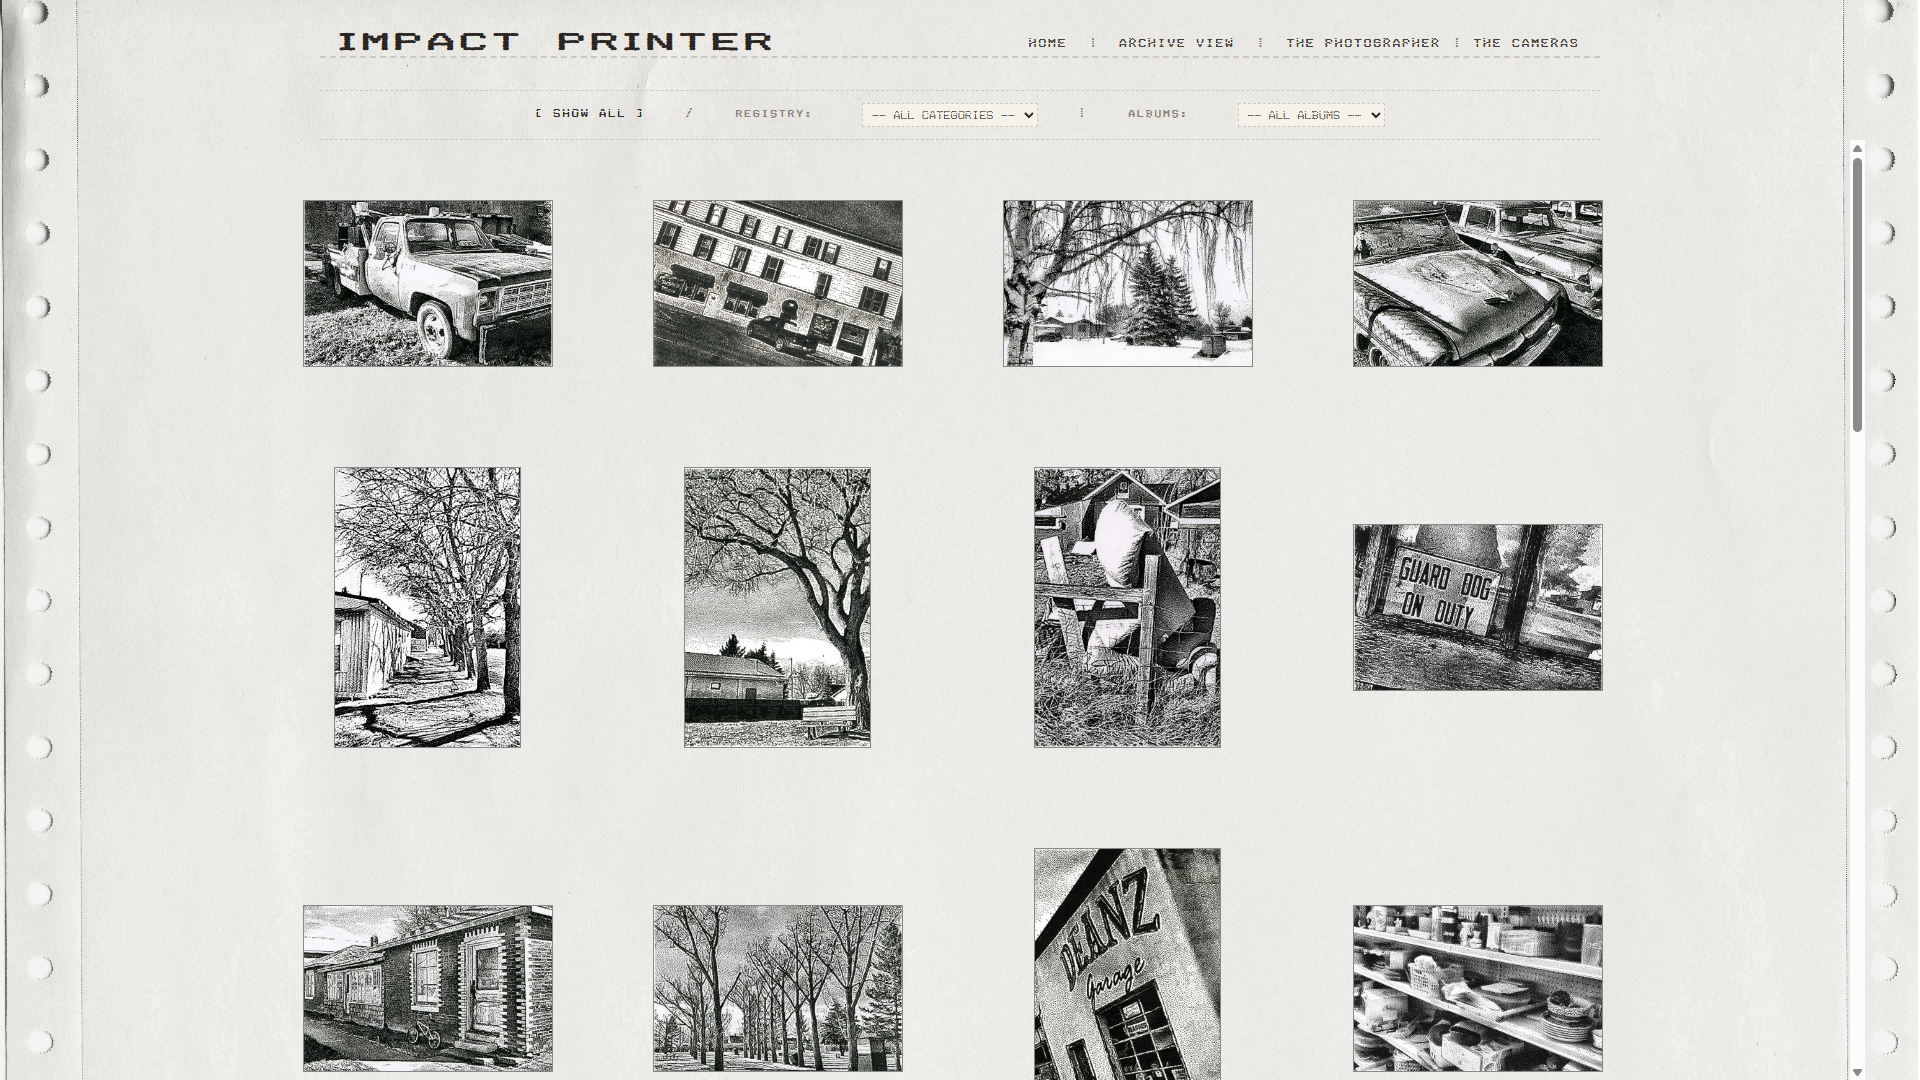
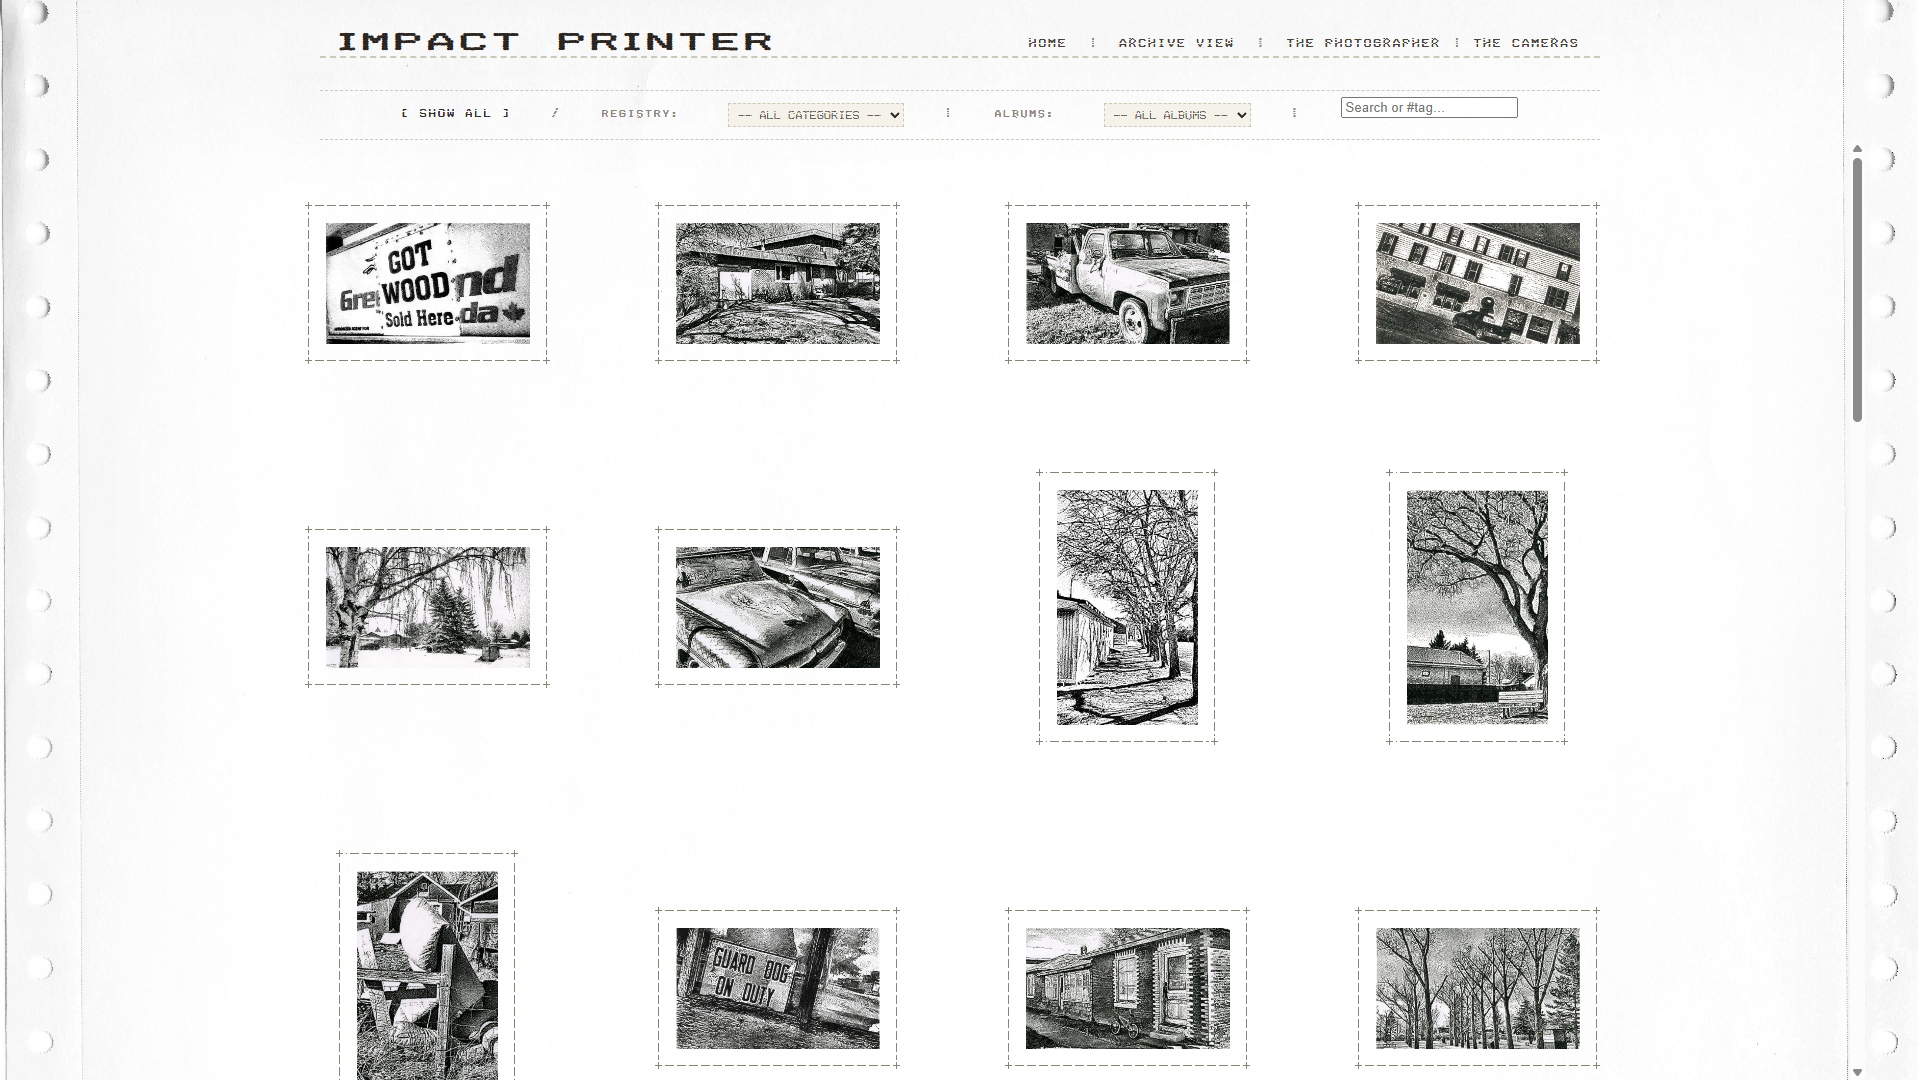
Redesign media library: cleaner card layout, TIFF handling, themed shortcodes
- Cards now show filename, a prominent shortcode (dashed border, click
  to copy), compact size/align dropdowns, and SWAP/PURGE actions in a
  tighter vertical stack.
- Non-web formats (TIF, PSD, etc.) show a format badge instead of a
  broken <img> tag.
- Purge confirmation now warns about shortcode breakage.
- Shortcode display styled per admin theme (accent border/text on dark
  bg) across all 16 colour themes.
- Removed unused compact-label/compact-select/preview-box classes;
  replaced with purpose-built asset-filename, asset-shortcode-row,
  asset-no-preview.
- Updated Impact Printer archive screenshot.

diff --git a/assets/css/admin-theme-geometry-master.css b/assets/css/admin-theme-geometry-master.css
@@ -1061,8 +1061,8 @@ button:active,
 /* --- MEDIA LIBRARY --- */
 .asset-grid {
     display: grid;
-    grid-template-columns: repeat(auto-fill, minmax(220px, 1fr));
-    gap: 30px;
+    grid-template-columns: repeat(auto-fill, minmax(240px, 1fr));
+    gap: 24px;
 }
 
 .asset-card {
@@ -1070,20 +1070,18 @@ button:active,
     border-style: solid;
     border-radius: 4px;
     overflow: hidden;
-    transition: transform 0.2s, box-shadow 0.2s;
-}
-
-.asset-card:hover {
-    transform: translateY(-2px);
+    display: flex;
+    flex-direction: column;
 }
 
 .asset-thumb-wrapper {
-    height: 150px;
+    height: 160px;
     display: flex;
     align-items: center;
     justify-content: center;
     border-bottom-width: 1px;
     border-bottom-style: solid;
+    overflow: hidden;
 }
 
 .asset-thumb-wrapper img {
@@ -1092,49 +1090,70 @@ button:active,
     object-fit: contain;
 }
 
+.asset-no-preview {
+    font-family: monospace;
+    font-size: 1.1rem;
+    letter-spacing: 1px;
+    opacity: 0.5;
+}
+
 .asset-info {
-    padding: 15px;
+    padding: 12px;
+    display: flex;
+    flex-direction: column;
+    gap: 8px;
+    flex: 1;
+}
+
+.asset-filename {
+    font-size: 0.7rem;
+    white-space: nowrap;
+    overflow: hidden;
+    text-overflow: ellipsis;
+}
+
+.asset-shortcode-row .shortcode-display {
+    font-family: monospace;
+    font-size: 0.8rem;
+    padding: 6px 10px;
+    border-width: 1px;
+    border-style: dashed;
+    border-radius: 3px;
+    text-align: center;
+    cursor: pointer;
+    transition: opacity 0.15s;
+    letter-spacing: 0.3px;
+}
+.asset-shortcode-row .shortcode-display:hover {
+    opacity: 0.7;
 }
 
 .asset-controls {
     display: flex;
-    gap: 10px;
+    gap: 6px;
 }
-
-.asset-controls .control-group {
+.asset-controls select {
     flex: 1;
-}
-
-.asset-card label {
-    font-size: 0.65rem;
-    margin-bottom: 4px;
-    margin-top: 10px;
-    letter-spacing: 0.5px;
-}
-
-.asset-card select {
-    height: 32px;
-    padding: 0 8px;
-    font-size: 0.8rem;
-    margin: 0;
-}
-
-.asset-card .preview-box {
-    height: 32px;
-    padding: 0 10px;
+    height: 28px;
+    padding: 0 6px;
     font-size: 0.75rem;
-    font-family: monospace;
     margin: 0;
-    display: flex;
-    align-items: center;
-    justify-content: center;
-    text-align: center;
 }
 
 .asset-actions {
-    margin-top: 15px;
     display: flex;
-    justify-content: flex-end;
+    gap: 8px;
+    align-items: center;
+    margin-top: auto;
+    padding-top: 4px;
+}
+.asset-actions .action-edit {
+    font-size: 0.7rem;
+    padding: 4px 10px;
+}
+.asset-actions .action-delete-link {
+    font-size: 0.7rem;
+    margin-left: auto;
 }
 
 /* --- ENGINE MECHANICS (SLIDERS & COLOUR PICKERS) --- */

diff --git a/assets/adminthemes/the-black-pearl/admin-theme-colours-the-black-pearl.css b/assets/adminthemes/the-black-pearl/admin-theme-colours-the-black-pearl.css
@@ -417,6 +417,24 @@ input[type="range"]::-webkit-slider-thumb {
     background-color: #FFFFFF;
 }
 
+/* Asset cards (Media Library) */
+.asset-card {
+    border-color: #1A1A1A;
+    background-color: #0D0D0D;
+}
+.asset-thumb-wrapper {
+    border-bottom-color: #1A1A1A;
+    background-color: #050505;
+}
+.asset-shortcode-row .shortcode-display {
+    border-color: #FFFFFF;
+    color: #FFFFFF;
+    background-color: #050505;
+}
+.asset-no-preview {
+    color: #555;
+}
+
 /* 17: CSS OVERRIDE PAGE (smack-css.php) */
 .css-tab {
     color: #444;

diff --git a/assets/adminthemes/50-shades-of-greymatter/admin-theme-colours-50-shades-of-greymatter.css b/assets/adminthemes/50-shades-of-greymatter/admin-theme-colours-50-shades-of-greymatter.css
@@ -414,6 +414,14 @@ input[type="range"]::-webkit-slider-thumb {
     border-bottom-color: #CCCCCC;
     background-color: #F0F0F0;
 }
+.asset-shortcode-row .shortcode-display {
+    border-color: #666666;
+    color: #666666;
+    background-color: #F0F0F0;
+}
+.asset-no-preview {
+    color: #555;
+}
 
 /* 17: CSS OVERRIDE PAGE */
 .css-tab {

diff --git a/assets/adminthemes/amber-phosphorus/admin-theme-colours-amber-phosphorus.css b/assets/adminthemes/amber-phosphorus/admin-theme-colours-amber-phosphorus.css
@@ -439,6 +439,14 @@ input[type="range"]::-webkit-slider-thumb {
     border-bottom-color: #332300;
     background-color: #000000;
 }
+.asset-shortcode-row .shortcode-display {
+    border-color: #ffb000;
+    color: #ffb000;
+    background-color: #050505;
+}
+.asset-no-preview {
+    color: #555;
+}
 
 /* SHORTCODE TOOLBAR */
 .sc-toolbar {

diff --git a/assets/adminthemes/blue-skies/admin-theme-colours-blue-skies.css b/assets/adminthemes/blue-skies/admin-theme-colours-blue-skies.css
@@ -440,6 +440,14 @@ input[type="range"]::-webkit-slider-thumb {
     border-bottom-color: #d6eaf8;
     background-color: #ffffff;
 }
+.asset-shortcode-row .shortcode-display {
+    border-color: #3498db;
+    color: #3498db;
+    background-color: #f4f9fd;
+}
+.asset-no-preview {
+    color: #555;
+}
 
 /* SHORTCODE TOOLBAR */
 .sc-toolbar {

diff --git a/assets/adminthemes/bumblebee/admin-theme-colours-bumblebee.css b/assets/adminthemes/bumblebee/admin-theme-colours-bumblebee.css
@@ -441,6 +441,14 @@ input[type="range"]::-webkit-slider-thumb {
     border-bottom-color: #1A1A1A;
     background-color: #000000;
 }
+.asset-shortcode-row .shortcode-display {
+    border-color: #FFCC00;
+    color: #FFCC00;
+    background-color: #0A0A0A;
+}
+.asset-no-preview {
+    color: #555;
+}
 
 /* SHORTCODE TOOLBAR */
 .sc-toolbar {

diff --git a/assets/adminthemes/caribbean-blue/admin-theme-colours-caribbean-blue.css b/assets/adminthemes/caribbean-blue/admin-theme-colours-caribbean-blue.css
@@ -443,6 +443,14 @@ input[type="range"]::-webkit-slider-thumb {
     border-bottom-color: #1A242F;
     background-color: #050A14;
 }
+.asset-shortcode-row .shortcode-display {
+    border-color: #00FFFF;
+    color: #00FFFF;
+    background-color: #081220;
+}
+.asset-no-preview {
+    color: #555;
+}
 
 /* 17: CSS OVERRIDE PAGE (smack-css.php) */
 .css-tab {

diff --git a/assets/adminthemes/dapper-dan/admin-theme-colours-dapper-dan.css b/assets/adminthemes/dapper-dan/admin-theme-colours-dapper-dan.css
@@ -437,6 +437,14 @@ input[type="range"]::-webkit-slider-thumb {
     border-bottom-color: #222222;
     background-color: #0A0A0A;
 }
+.asset-shortcode-row .shortcode-display {
+    border-color: #EAB308;
+    color: #EAB308;
+    background-color: #0D0D0D;
+}
+.asset-no-preview {
+    color: #555;
+}
 
 /* 17: CSS OVERRIDE PAGE (smack-css.php) */
 .css-tab {

diff --git a/assets/adminthemes/green-arrow/admin-theme-colours-green-arrow.css b/assets/adminthemes/green-arrow/admin-theme-colours-green-arrow.css
@@ -438,6 +438,14 @@ input[type="range"]::-webkit-slider-thumb {
     border-bottom-color: #0D260D;
     background-color: #010401;
 }
+.asset-shortcode-row .shortcode-display {
+    border-color: #00C853;
+    color: #00C853;
+    background-color: #020802;
+}
+.asset-no-preview {
+    color: #555;
+}
 
 /* 17: CSS OVERRIDE PAGE (smack-css.php) */
 .css-tab {

diff --git a/assets/adminthemes/green-phosphorus/admin-theme-colours-green-phosphorus.css b/assets/adminthemes/green-phosphorus/admin-theme-colours-green-phosphorus.css
@@ -439,6 +439,14 @@ input[type="range"]::-webkit-slider-thumb {
     border-bottom-color: #0a3300;
     background-color: #000000;
 }
+.asset-shortcode-row .shortcode-display {
+    border-color: #33ff00;
+    color: #33ff00;
+    background-color: #050505;
+}
+.asset-no-preview {
+    color: #555;
+}
 
 /* SHORTCODE TOOLBAR */
 .sc-toolbar {

diff --git a/assets/adminthemes/inspector-clouseau/admin-theme-colours-inspector-clouseau.css b/assets/adminthemes/inspector-clouseau/admin-theme-colours-inspector-clouseau.css
@@ -440,6 +440,14 @@ input[type="range"]::-webkit-slider-thumb {
     border-bottom-color: #f0c8dc;
     background-color: #ffffff;
 }
+.asset-shortcode-row .shortcode-display {
+    border-color: #e83e8c;
+    color: #e83e8c;
+    background-color: #fdf0f6;
+}
+.asset-no-preview {
+    color: #555;
+}
 
 /* SHORTCODE TOOLBAR */
 .sc-toolbar {

diff --git a/assets/adminthemes/mi-casa-es-su-picasa/admin-theme-colours-mi-casa-es-su-picasa.css b/assets/adminthemes/mi-casa-es-su-picasa/admin-theme-colours-mi-casa-es-su-picasa.css
@@ -426,6 +426,14 @@ input[type="range"]::-webkit-slider-thumb {
     border-bottom-color: #383838;
     background-color: #242424;
 }
+.asset-shortcode-row .shortcode-display {
+    border-color: #00b4b4;
+    color: #00b4b4;
+    background-color: #1e1e1e;
+}
+.asset-no-preview {
+    color: #555;
+}
 
 /* 17: CSS OVERRIDE PAGE (smack-css.php) */
 .css-tab {